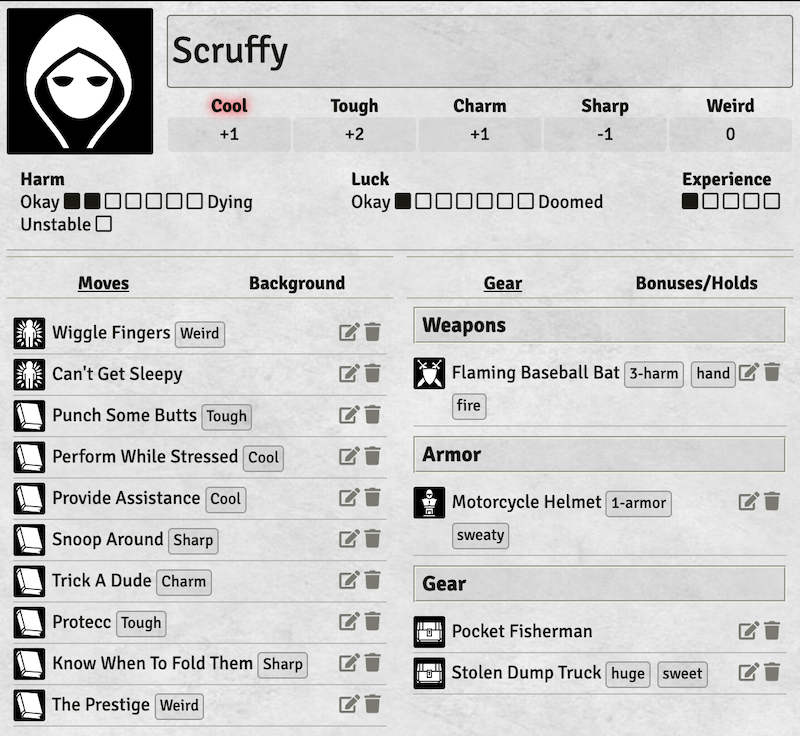
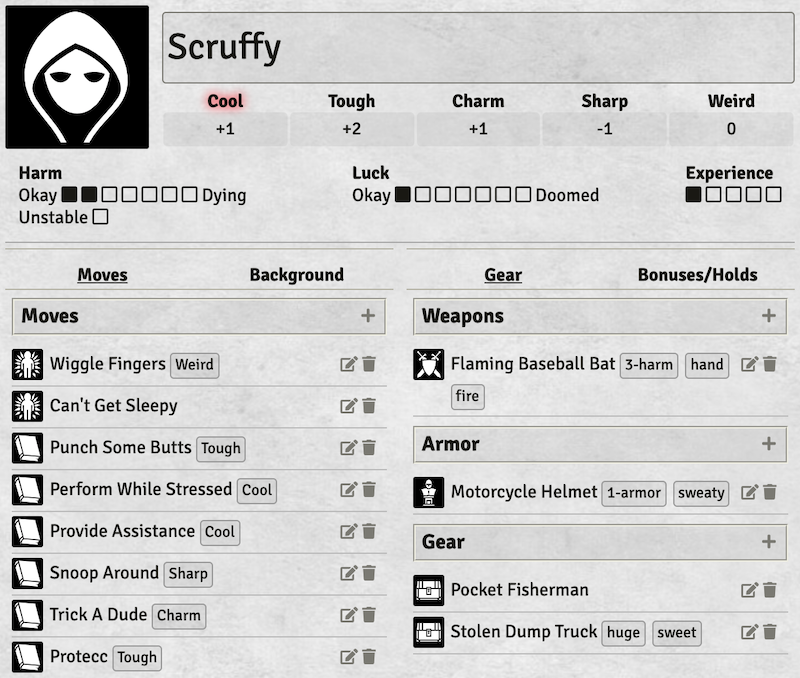
motw: Add "+" buttons to Moves/Weapons/Armor/Gear sections.

Changed region(s): [[0.0, 0.0, 1.0, 1.0]]

diff --git a/templates/actor-sheet.html b/templates/actor-sheet.html
@@ -75,6 +75,16 @@
                 {{!-- Moves Tab --}}
                 <div class="tab moves" data-group="left" data-tab="moves">
                     <ol class="inventory-list">
+                        <li class="inventory-header flexrow">
+                            <h3 class="item">{{localize "SIMPLE.Moves"}}</h3>
+                            {{#if owner}}
+                            <div class="item-controls">
+                                <a class="item-control item-create" title='{{localize "SIMPLE.Add"}}' data-type="Moves">
+                                    <i class="fas fa-plus"></i>
+                                </a>
+                            </div>
+                            {{/if}}
+                        </li>
                         <ol class="item-list">
                         {{#each actor.moves as |item id|}}
                             <li class="item flexrow" data-item-id="{{item._id}}">
@@ -125,10 +135,17 @@
                 <div class="tab gear" data-group="right" data-tab="gear">
                     <ol class="inventory-list">
                     {{#each actor.allGear as |section id|}}
-                        <li class="inventory-header">
-                            <h3 class="item flexrow">
+                        <li class="inventory-header flexrow">
+                            <h3 class="item">
                                 {{localize (concat "SIMPLE." section.label)}}
                             </h3>
+                            {{#if ../owner}}
+                            <div class="item-controls">
+                                <a class="item-control item-create" title='{{localize "SIMPLE.Add"}}' data-type="{{section.label}}">
+                                    <i class="fas fa-plus"></i>
+                                </a>
+                            </div>
+                            {{/if}}
                         </li>
                         <ol class="item-list">
                         {{#each section.items as |item id|}}

diff --git a/module/actor-sheet.js b/module/actor-sheet.js
@@ -136,6 +136,35 @@ export class SimpleActorSheet extends ActorSheet {
       this.actor.modifyValue(valueName, delta);
     });
 
+    // Add Inventory Item
+    html.find('.item-create').click(ev => {
+      ev.preventDefault();
+
+      // TODO: Consolidate this with the similar list in simple.js.
+      const DEFAULT_MOVE_ICON = "icons/svg/book.svg"
+      const DEFAULT_GEAR_ICON = "icons/svg/chest.svg";
+      const DEFAULT_WEAPON_ICON = "icons/svg/combat.svg";
+      const DEFAULT_ARMOR_ICON = "icons/svg/statue.svg";
+
+      // The incoming type will be a localization key like "Moves", but
+      // we need an item type like "move".
+      const headerType = $(ev.currentTarget).data("type");
+      const entry = {
+        Moves: { type: "move", img: DEFAULT_MOVE_ICON },
+        Weapons: { type: "weapon", img: DEFAULT_WEAPON_ICON },
+        Armor: { type: "armor", img: DEFAULT_ARMOR_ICON },
+        Gear: { type: "gear", img: DEFAULT_GEAR_ICON },
+      }[headerType];
+
+      const itemData = {
+        name: game.i18n.format("SIMPLE.NewItem"),
+        type: entry.type,
+        img: entry.img,
+        data: {},
+      };
+      return this.actor.createOwnedItem(itemData);
+    });
+
     // Update Inventory Item
     html.find('.item-edit').click(ev => {
       const li = $(ev.currentTarget).parents(".item");

diff --git a/module/simple.js b/module/simple.js
@@ -110,6 +110,7 @@ Hooks.once("init", async function() {
 Hooks.on("createItem", item => {
   let MYSTERY_MAN_ICON = "icons/svg/mystery-man.svg";
 
+  // TODO: Consolidate this with the similar list in actor-sheet.js.
   let DEFAULT_GEAR_ICON = "icons/svg/chest.svg";
   let DEFAULT_WEAPON_ICON = "icons/svg/combat.svg";
   let DEFAULT_ARMOR_ICON = "icons/svg/statue.svg";

diff --git a/styles/simple.css b/styles/simple.css
@@ -109,6 +109,15 @@
   font-weight: 700;
   font-size: 16px;
 }
+.monsterweek .inventory-list .item-controls {
+  flex: 0 0 18px;
+  justify-content: flex-end;
+}
+.monsterweek .inventory-list .item-controls a {
+  flex: 0 0 22px;
+  font-size: 12px;
+  text-align: center;
+}
 .monsterweek .item-list {
   list-style: none;
   margin: 7px 0;

diff --git a/styles/simple.less b/styles/simple.less
@@ -125,6 +125,18 @@
         font-size: 16px;
       }
     }
+
+    // Item Control Buttons
+    .item-controls {
+      flex: 0 0 18px;
+      justify-content: flex-end;
+
+      a {
+        flex: 0 0 22px;
+        font-size: 12px;
+        text-align: center;
+      }
+    }
   }
 
   /* Items List */

diff --git a/README.md b/README.md
@@ -66,7 +66,9 @@ of stuff that isn't fully supported by the system.
 
 ### Move
 
-Create by creating an item, and selecting "move" as the type.
+Create by using the "+" icon in the header of the Moves list on the Hunter
+sheet, or creating a new item in the "Items" chat tab and selecting "move" as
+the type.
 
 ![Move sheet](docs/images/move-sheet.png)
 
@@ -78,7 +80,9 @@ to roll without needing to open the move.
 
 ### Gear/Weapon/Armor
 
-Create by creating an item, and selecting "gear", "weapon", or "armor" as the type.
+Create by using the "+" icon in the headers of the Weapons/Armor/Gear sections
+on the Hunter sheet, or creating a new item in the "Items" chat tab and
+selecting "weapon"/"armor"/"gear" as the type.
 
 ![Gear sheet](docs/images/gear-sheet.png)
 
